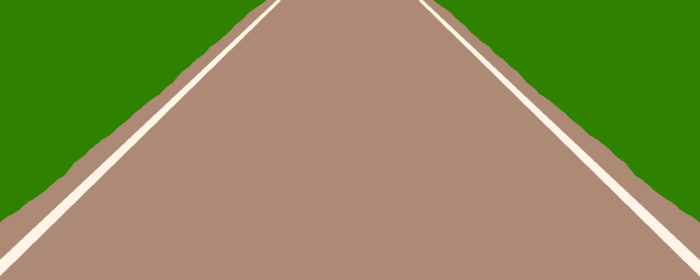
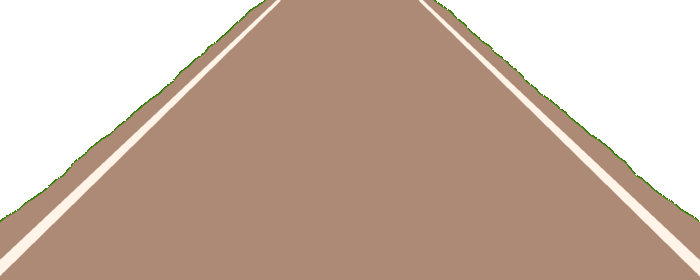
grass

diff --git a/src/scenes/Play.js b/src/scenes/Play.js
@@ -4,6 +4,8 @@ class Play extends Phaser.Scene {
     }
 
     create() {
+        this.winScore = 100
+
         // add background image
         this.road = this.add.image(0, config.height / 5, 'road').setOrigin(0)
         this.graphicsSet = this.add.graphics({
@@ -51,14 +53,15 @@ class Play extends Phaser.Scene {
         //variables
         this.score = 0
         this.stripeTimerLength = 1800
-        this.stripeTimer = this.stripeTimerLength
+        this.stripeTimer = 0//this.stripeTimerLength
+        this.grassBool = true
 
         //for player bobbing effect
         this.gaitCounter = 0
         this.gaitMax = 359
         
-        this.pickupTimerLength = 2000
-        this.pickupTimer = 3000
+        this.pickupTimerLength = 2000//2000
+        this.pickupTimer = 0//3000
 
         this.pickups = this.add.group({
             classType: Phaser.Physics.Arcade.Sprite,
@@ -68,6 +71,12 @@ class Play extends Phaser.Scene {
         })
 
         this.stripes = this.add.group({
+            classType: Phaser.Physics.Sprite,
+            active: true,
+            maxSize: -1
+        })
+
+        this.grassStripes = this.add.group({
             classType: Phaser.Physics.Sprite,
             active: true,
             maxSize: -1
@@ -108,7 +117,7 @@ class Play extends Phaser.Scene {
     }
 
     update() {
-        if(this.score >= 30) {
+        if(this.score >= this.winScore) {
             this.sound.stopAll()
             this.scene.start('winScene')
         }
@@ -137,7 +146,8 @@ class Play extends Phaser.Scene {
         this.pickupTimer -= this.game.loop.delta
         if (this.pickupTimer <= 0) {
             this.ObjectSpawner()
-            if (this.pickupTimerLength > 500) { //timer shouldn't become faster than 500ms
+            this.ObjectSpawner()
+            if (this.pickupTimerLength > 500) { //timer shouldn't become faster than 300ms (was 500)
                 this.pickupTimerLength -= 50
             }
             this.pickupTimer = this.pickupTimerLength
@@ -161,6 +171,16 @@ class Play extends Phaser.Scene {
             this.stripe.setVelocityY(config.speed)
         })
 
+        //grass child updates
+        this.grassStripes.children.iterate((grass) => {
+            if(grass.y > config.height) {
+                //this.grassStripes.remove(this.grassStripes.grass[0], true, true) //not working!!!
+            }
+            grass.scaleX = (grass.y  / 100) + 0.5
+            grass.scaleY = grass.y / 300
+            grass.setVelocityY(config.speed)
+        })
+
     }
 
     ObjectSpawner() {
@@ -168,7 +188,7 @@ class Play extends Phaser.Scene {
         switch (Phaser.Math.Between(0, 2)) { //what is being spawned?
             case 0:
                 //spawn coin
-                this.pickups.add(new Pickup(this, config.width/2, this.skyHeight, 'coin', 2))
+                this.pickups.add(new Pickup(this, config.width/2, this.skyHeight, 'coin', 1))
                 break
             case 1:
                 //spawn bomb
@@ -176,7 +196,7 @@ class Play extends Phaser.Scene {
                 break
             case 2:
                 //spawn clothesline OR coin
-                if(Phaser.Math.Between(0, 4) == 0) {
+                if(Phaser.Math.Between(0, 8) == 0) { //was 4
                     this.pickups.add(new Clothesline(this, config.width/2, this.skyHeight, 'clothesline', -5))
                 } else {
                     this.pickups.add(new Pickup(this, config.width/2, this.skyHeight, 'coin', 2))
@@ -208,9 +228,16 @@ class Play extends Phaser.Scene {
 
     StripeSpawner(){
         this.stripe = this.physics.add.sprite(config.width/2, 0, 'stripe').setBelow(this.sky)
+        this.grass = this.physics.add.sprite(config.width/2, -50, 'grass').setOrigin(0.5, 0.5).setToBack()
         //this.stripe.setVelocityY(config.speed)
         //this.stripe.scale = 0.1
         this.stripes.add(this.stripe)
+        if(this.grassBool) {
+            this.grassBool = false
+            this.grassStripes.add(this.grass)
+        } else {
+            this.grassBool = true
+        }
     }
 
     StripeUpdater(stripe){    

diff --git a/src/scenes/Load.js b/src/scenes/Load.js
@@ -22,6 +22,7 @@ class Load extends Phaser.Scene {
         this.load.image('stripe', 'road_stripe.png')
         this.load.image('bomb', 'bomb.png')
         this.load.image('clothesline', 'clothesline.png')
+        this.load.image('grass', 'grass_stripe.png')
         //audio
         this.load.audio('sfx-bomb', 'bomb.wav')
         this.load.audio('sfx-coin', 'coin.wav')

diff --git a/src/main.js b/src/main.js
@@ -31,6 +31,7 @@ const config = {
             debug: true
         }
     },
+    backgroundColor: '#08770c',
     scene: [ Load, Title, Win, Play ]
 }
 
